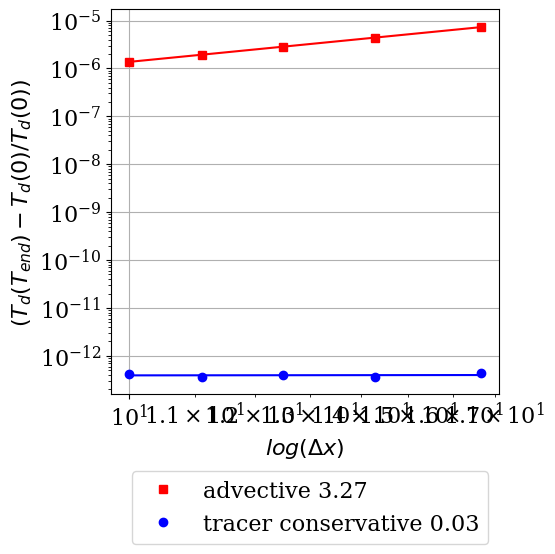
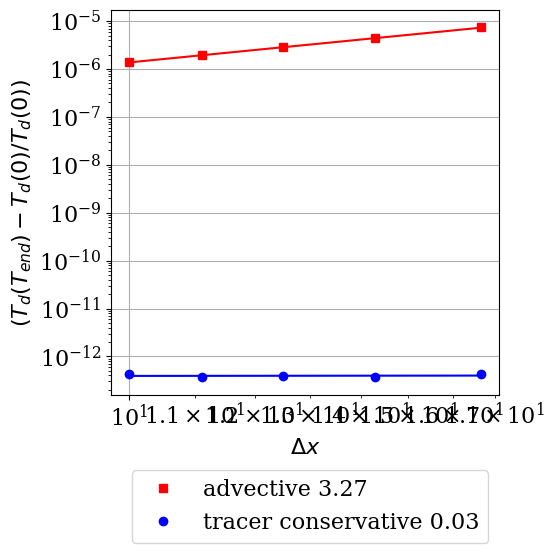
change x axis labels

diff --git a/paper_test_suite/NL_sphere/plot_convergence_order_1.py b/paper_test_suite/NL_sphere/plot_convergence_order_1.py
@@ -12,7 +12,7 @@ import numpy as np
 
 order = 1
 configuration = 'convergence'
-quantity = 'm_X' # tracer_density or m_X
+quantity = 'tracer_density' # tracer_density or m_X
 
 # Tracer density will be the total and m_X is the L2 of stead state error
 
@@ -21,9 +21,9 @@ quantity = 'm_X' # tracer_density or m_X
 # ---------------------------------------------------------------------------- #
 plot_dir = f'{abspath(dirname(__file__))}/figures'
 if quantity == 'm_X':
-    plot_name = f'{plot_dir}/NL_slice_ord_1_conv_m_l2_sse.png'
+    plot_name = f'{plot_dir}/NL_sphere_ord_1_conv_m_l2_sse.png'
 else:
-    plot_name = f'{plot_dir}/NL_slice_ord_1_conv_Td_diff.png'
+    plot_name = f'{plot_dir}/NL_sphere_ord_1_conv_Td_diff.png'
 conservative = []
 advective = []
 
@@ -91,15 +91,17 @@ labels = ['advective', 'tracer conservative']
 
 print(all_error_data)
 
-xlabel = r"$log(\Delta x)$"
+
 if quantity == 'tracer_density':
     log_by = 'axes'
-    log_base=10
-    ylabel = r"$log((T_d(T_{end}) - T_d(0))/T_d(0))$"
+    log_base = 10
+    ylabel = r"$(T_d(T_{end}) - T_d(0))/T_d(0)$"
+    xlabel = r"$\Delta x$"
 else:
     log_by = 'data'
     log_base= 'e'
-    ylabel = "$log(||m(T_{end}) - m(0)||/||m(0)||$"
+    xlabel = r"$ln(\Delta x)$"
+    ylabel = "$ln(||m(T_{end}) - m(0)||/||m(0)||$"
 
 
 set_tomplot_style()

diff --git a/paper_test_suite/NL_slice/plot_NL_slice_comparison.py b/paper_test_suite/NL_slice/plot_NL_slice_comparison.py
@@ -10,9 +10,9 @@ from tomplot import (set_tomplot_style, plot_convergence,
                      tomplot_legend_fig)
 import numpy as np
 
-order = 0
+order = 1
 configuration = 'convergence'
-quantity = 'm_X' # tracer_density or m_X
+quantity = 'tracer_density' # tracer_density or m_X
 
 # Tracer density will be the total and m_X is the L2 of stead state error
 
@@ -102,7 +102,7 @@ if quantity == 'tracer_density':
     log_by = 'axes'
     log_base=10
     ylabel = r"$(T_d(T_{end}) - T_d(0)/T_d(0))$"
-    xlabel = r"$log(\Delta x)$"
+    xlabel = r"$\Delta x$"
 else:
     log_by='data'
     log_base='e'
